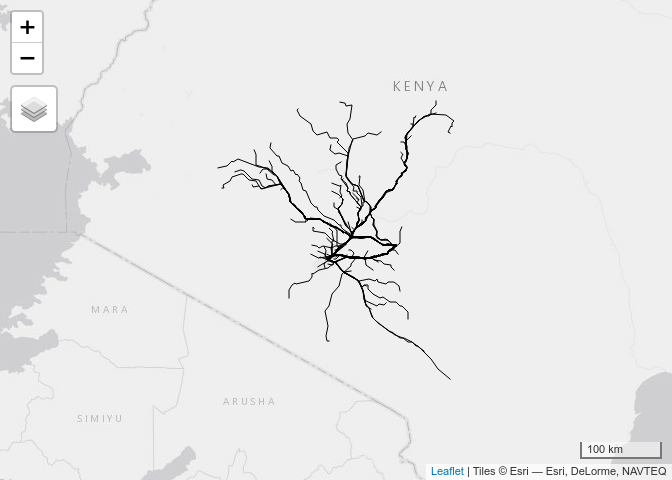
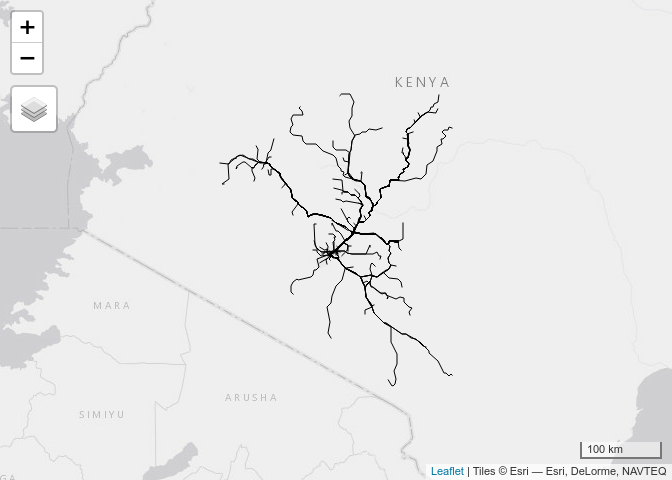
Add code for OSRM routes, close #1

diff --git a/README.md b/README.md
@@ -64,6 +64,20 @@ od_sf_short %>%
 
 ![](README_files/figure-gfm/unnamed-chunk-2-1.png)<!-- -->
 
+Do the routing with OSRM:
+
+``` r
+od_routes_osrm = route(l = od_sf_short, route_fun = route_osrm, osrm.profile = "car")
+sf::write_sf(od_routes_osrm, "od_routes_osrm.geojson")
+```
+
+``` r
+od_routes_osrm = sf::read_sf("od_routes_osrm.geojson")
+qtm(od_routes_osrm)
+```
+
+![](README_files/figure-gfm/unnamed-chunk-4-1.png)<!-- -->
+
 ``` r
 od_routes = route(l = od_sf_short, route_fun = route_google)
 sf::write_sf(od_routes, "od_routes.geojson")
@@ -74,4 +88,4 @@ od_routes = sf::read_sf("od_routes.geojson")
 qtm(od_routes)
 ```
 
-![](README_files/figure-gfm/unnamed-chunk-4-1.png)<!-- -->
+![](README_files/figure-gfm/unnamed-chunk-6-1.png)<!-- -->
